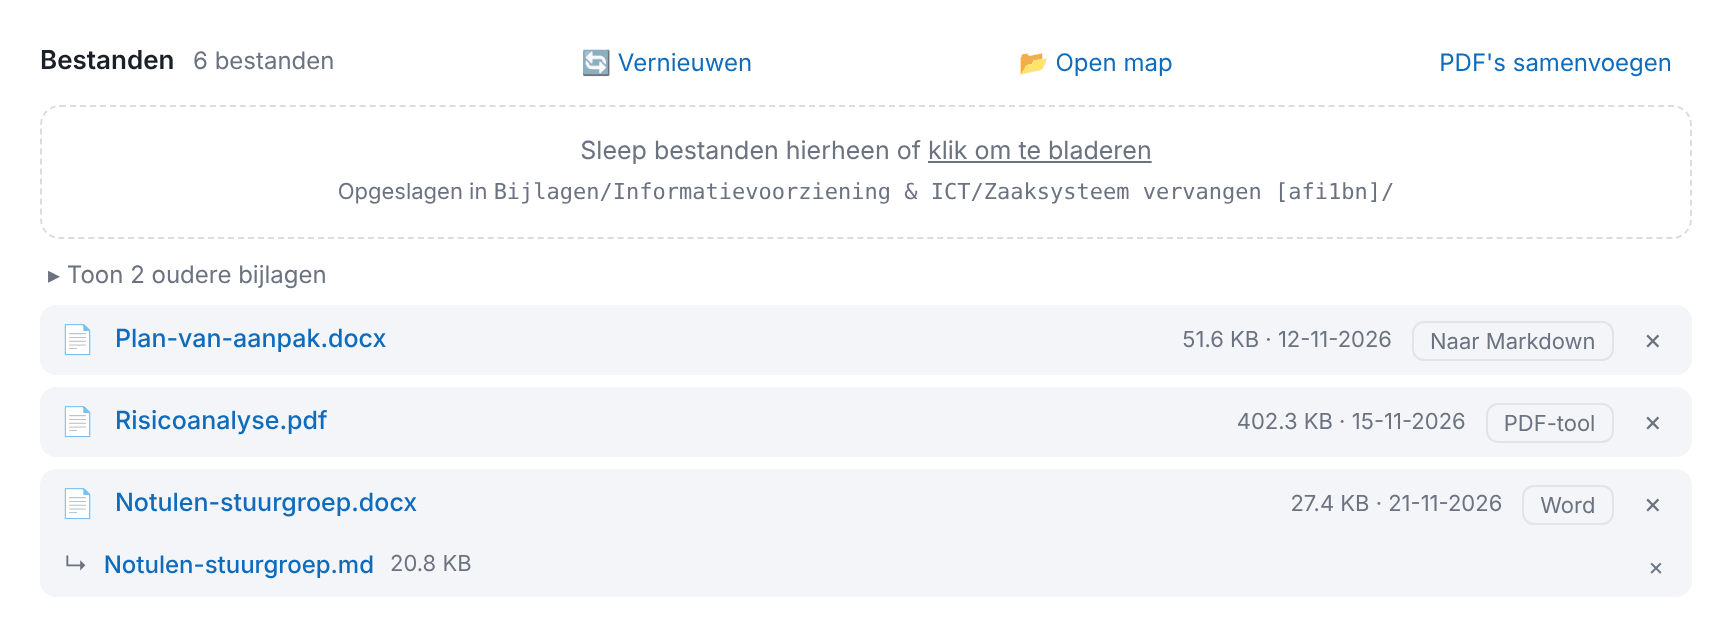
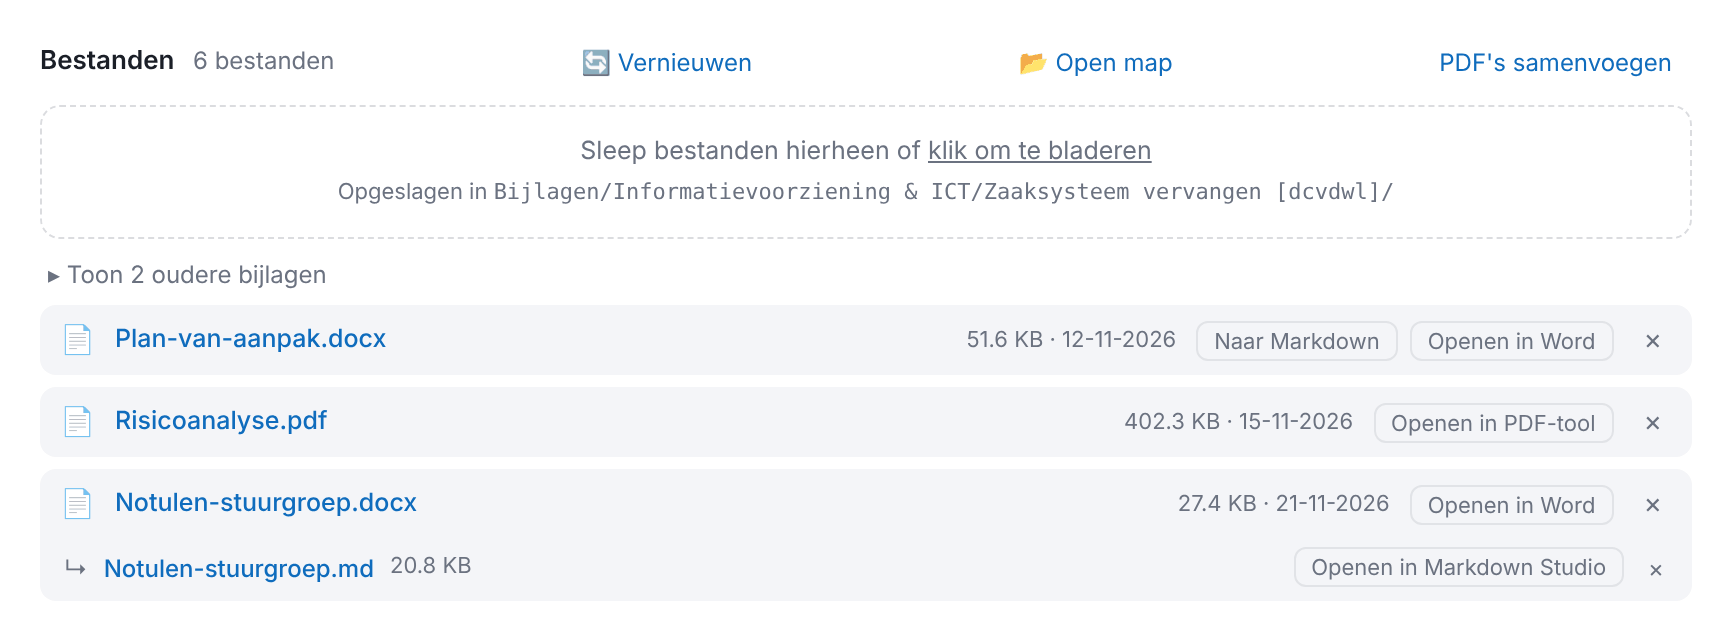
tweaks v4.48.2

diff --git a/index.html b/index.html
@@ -545,7 +545,9 @@
   .att-row .att-sub .ic{font-size:12px}
   .att-row .att-sub .del{margin-left:auto;font-size:12px;padding:0 4px}
   .att-row .att-sub.nieuw{animation:attNieuw 2.4s ease-out}
-  .att-row .editbtn,.att-row .wordbtn{min-width:0}
+  .att-row .att-acts{display:flex;gap:6px;justify-content:flex-end}
+  .att-row .att-sub .pdfbtn{margin-left:auto}
+  .att-row .att-sub .pdfbtn + .del{margin-left:0}
   .att-more{align-self:flex-start;background:transparent;border:0;color:var(--muted);cursor:pointer;font-size:12px;padding:2px 4px;border-radius:6px}
   .att-more:hover{color:var(--accent);background:var(--accent-soft)}
   .att-row.nieuw{animation:attNieuw 2.4s ease-out}
@@ -1969,8 +1971,15 @@
    Single-file HTML tool — data wordt opgeslagen als JSON.
    ============================================================ */
 
-const APP_VERSION = "4.48.0";
+const APP_VERSION = "4.48.2";
 const CHANGELOG = [
+  { version: "4.48.2", datum: "2026-11-24", items: [
+    "De knop PDF-tool bij PDF-bijlagen heet nu Openen in PDF-tool, passend bij Openen in Word en Openen in Markdown Studio.",
+  ]},
+  { version: "4.48.1", datum: "2026-11-24", items: [
+    "Een Word-bijlage heeft altijd de knop Openen in Word, ook als er nog geen Markdown-bestand van is gemaakt. Staat het SharePoint-adres bij Instellingen, dan opent het in Word Online.",
+    "Bij .md-bestanden staat nu de knop Openen in Markdown Studio, ook bij een .md dat onder een Word-document staat.",
+  ]},
   { version: "4.48.0", datum: "2026-11-24", items: [
     "Een Word-bijlage waar al een Markdown-bestand van is gemaakt, opent bij een klik op de naam dat .md-bestand in Markdown Studio. Het Word-document zelf open je met de knop Word.",
     "Wijzigingen in Markdown Studio schrijf je met Opslaan en terug naar hetzelfde .md-bestand, dus niet meer als nieuwe kopie. Is het bestand intussen elders gewijzigd, dan wordt er niets overschreven.",
@@ -15131,7 +15140,7 @@ const HELP_SECTIES = [
   "icon": "activiteiten",
   "views": [],
   "nav": "",
-  "tekst": "Een activiteit is alles waar je mee bezig bent bij een afdeling, een congres of het College B&W: een project, een vraag, een traject. Een activiteit maak je aan met **+ Nieuwe activiteit** op het tabblad Activiteiten van een afdeling. Klik op een activiteitskaart om hem open of dicht te klappen.\n\n# Basisgegevens\n- **Titel, startdatum en einddatum** staan samen op één regel.\n- **Status**: één klik op *lopend*, *on hold*, *afgerond* of *gearchiveerd*.\n- **Prioriteit**: *hoog*, *midden* of *laag*.\n- **Tags**: eerder gebruikte tags staan als knoppen, de meest gebruikte eerst en groter. Eén klik voegt een tag toe. Een nieuwe tag maak je via **+ Nieuwe of andere tag**.\n- **Omschrijving**: vrije tekst.\n\n# Acties\nConcrete to-do's bij de activiteit, met een optionele deadline. Afgevinkte acties verhuizen naar een ingeklapt archief op de kaart. Alle acties samen zie je in het scherm **Acties**.\n\n# Contactpersonen\n- Koppel mensen uit je contactenregister. Typ een naam en kies een suggestie.\n- Je vindt hier ook managers, collegeleden en control-personen die nog niet in Contacten staan; die worden dan automatisch toegevoegd.\n- De **rol** stel je per activiteit in, omdat iemands rol per verband kan verschillen. Naam, e-mail en telefoon komen uit het centrale contact.\n\n# Links\nHandige webadressen bij de activiteit, zoals een SharePoint-map, een Topdesk-melding of een document.\n\n# Logboek\nJe verslag van wat er is gebeurd: notities, mails en gesprekken. Zie **Logboek, opmaak en Snel vastleggen**.\n\n# Bijlagen\n- Sleep bestanden naar het vak, of klik om te bladeren. Ze worden opgeslagen in een eigen submap van je gekoppelde map; klik op een bijlage om hem te openen.\n- Bestanden die je zelf buiten de app in die map zet, worden automatisch herkend als je de activiteit opent. Bestanden die je uit die map hebt verwijderd (of verplaatst of hernoemd), verdwijnen dan ook uit de lijst. Met **Vernieuwen** laat je de map op elk moment opnieuw uitlezen; de knop meldt kort hoeveel bestanden er zijn toegevoegd en verwijderd.\n- Een bestand met dezelfde naam als een bestaande bijlage krijgt automatisch een unieke naam, bijvoorbeeld *rapport (2).pdf*.\n\n# PDF's ondertekenen, invullen en samenvoegen\n- Achter elke PDF-bijlage staat de knop **PDF-tool**. Die opent de PDF in de PDF-tool, in een nieuw tabblad. Daar kun je ondertekenen, tekst toevoegen, formulieren invullen, pagina's draaien of verwijderen en andere PDF's toevoegen.\n- Heeft een activiteit twee of meer PDF's, dan opent **PDF's samenvoegen** ze allemaal tegelijk.\n- Klaar? Klik in de PDF-tool op **Terugzetten**. Het resultaat komt als **nieuwe bijlage** bij de activiteit. Het origineel blijft ongewijzigd.\n- Alles blijft in je browser; er wordt niets geüpload.\n- De koppeling werkt alleen als je de tool via de website opent en de PDF-tool op hetzelfde websiteadres staat, in de map *pdf-tool*.\n\n# Word omzetten naar Markdown\n- Achter elke Word-bijlage (.docx) staat de knop **Naar Markdown**. Die opent het document in Markdown Studio, in een nieuw tabblad. Daar wordt het omgezet naar Markdown, handig om het aan een AI-chat te geven. Oude .doc-bestanden sla je eerst in Word op als .docx.\n- Klaar? Klik in Markdown Studio op **Terugzetten**. Het .md-bestand komt als **nieuwe bijlage** bij de activiteit, als klein regeltje onder het Word-document. Het origineel blijft ongewijzigd.\n- Is er een .md van het document gemaakt, dan opent een klik op de naam van het Word-document voortaan dat **.md-bestand** in Markdown Studio. Pas het aan en klik op **Opslaan en terug**: de wijzigingen gaan naar hetzelfde .md-bestand, er komt geen kopie bij. Is het bestand intussen op een andere plek gewijzigd, bijvoorbeeld door OneDrive, dan overschrijft de tool niets en krijg je een melding. Daarna sluit Markdown Studio zichzelf en kom je terug in deze tool.\n- Het Word-document zelf open je met de knop **Word**. Heb je bij Instellingen het **SharePoint-adres** van de gekoppelde map ingevuld, dan opent het in Word Online; anders op je computer.\n- Ook los .md-bestanden bij een activiteit hebben de knop **Bewerken** en openen in Markdown Studio.\n- Alles blijft in je browser; er wordt niets geüpload.\n- De koppeling werkt alleen als je de tool via de website opent en Markdown Studio op hetzelfde websiteadres staat, in de map *markdown-studio*.\n\n# Bijlagen overzichtelijk houden\nHeeft een activiteit meer dan drie bijlagen, dan zie je standaard alleen de laatste drie. Met **Toon oudere bijlagen** klap je de rest open, met **Toon alleen de laatste 3** klap je de lijst weer in.\n\n# Processen\nStart vanuit de activiteit een proces met werkinstructies, bijvoorbeeld *Aanschaf nieuwe software*. Het onderwerp wordt de titel van de activiteit. Gekoppelde processen staan op de kaart met hun voortgang; klik erop om het stappenplan te openen. Rond je het proces af, dan komt er automatisch een samenvatting in het logboek. Zie **Weekstart & processen**.\n\n# Verplaatsen, verwijderen en volgorde\n- **↔** verplaatst de activiteit naar een andere afdeling of een congres.\n- **×** verwijdert de activiteit.\n- Activiteiten staan in een vaste logische volgorde: eerst op status (lopend, on hold, afgerond, gearchiveerd), dan op prioriteit, dan op de eerstvolgende deadline en tot slot op titel.\n- Je kunt slepen om de volgorde aan te passen, binnen dezelfde status en prioriteit. **Standaardvolgorde** zet die handmatige volgorde weer terug.\n- Met de knoppen **Lopend / On hold / Afgerond / Gearchiveerd / Alle** kies je welke activiteiten je ziet. Afgeronde en gearchiveerde activiteiten zijn standaard verborgen.\n\n# Financiën\nIn een activiteit staat het blok **Financiën** met de begrotingsregels die aan de activiteit gekoppeld zijn, met begroot, uitgegeven en restant. Klik op een regel om hem te openen. Met **+ Begrotingsregel** maak je direct een regel aan voor deze activiteit. Heb je meer programma's, dan kies je in het venster bij welk programma (welke begroting) de regel hoort; standaard staat het programma klaar waar de activiteit al regels in heeft. Zie **Begroting**."
+  "tekst": "Een activiteit is alles waar je mee bezig bent bij een afdeling, een congres of het College B&W: een project, een vraag, een traject. Een activiteit maak je aan met **+ Nieuwe activiteit** op het tabblad Activiteiten van een afdeling. Klik op een activiteitskaart om hem open of dicht te klappen.\n\n# Basisgegevens\n- **Titel, startdatum en einddatum** staan samen op één regel.\n- **Status**: één klik op *lopend*, *on hold*, *afgerond* of *gearchiveerd*.\n- **Prioriteit**: *hoog*, *midden* of *laag*.\n- **Tags**: eerder gebruikte tags staan als knoppen, de meest gebruikte eerst en groter. Eén klik voegt een tag toe. Een nieuwe tag maak je via **+ Nieuwe of andere tag**.\n- **Omschrijving**: vrije tekst.\n\n# Acties\nConcrete to-do's bij de activiteit, met een optionele deadline. Afgevinkte acties verhuizen naar een ingeklapt archief op de kaart. Alle acties samen zie je in het scherm **Acties**.\n\n# Contactpersonen\n- Koppel mensen uit je contactenregister. Typ een naam en kies een suggestie.\n- Je vindt hier ook managers, collegeleden en control-personen die nog niet in Contacten staan; die worden dan automatisch toegevoegd.\n- De **rol** stel je per activiteit in, omdat iemands rol per verband kan verschillen. Naam, e-mail en telefoon komen uit het centrale contact.\n\n# Links\nHandige webadressen bij de activiteit, zoals een SharePoint-map, een Topdesk-melding of een document.\n\n# Logboek\nJe verslag van wat er is gebeurd: notities, mails en gesprekken. Zie **Logboek, opmaak en Snel vastleggen**.\n\n# Bijlagen\n- Sleep bestanden naar het vak, of klik om te bladeren. Ze worden opgeslagen in een eigen submap van je gekoppelde map; klik op een bijlage om hem te openen.\n- Bestanden die je zelf buiten de app in die map zet, worden automatisch herkend als je de activiteit opent. Bestanden die je uit die map hebt verwijderd (of verplaatst of hernoemd), verdwijnen dan ook uit de lijst. Met **Vernieuwen** laat je de map op elk moment opnieuw uitlezen; de knop meldt kort hoeveel bestanden er zijn toegevoegd en verwijderd.\n- Een bestand met dezelfde naam als een bestaande bijlage krijgt automatisch een unieke naam, bijvoorbeeld *rapport (2).pdf*.\n\n# PDF's ondertekenen, invullen en samenvoegen\n- Achter elke PDF-bijlage staat de knop **Openen in PDF-tool**. Die opent de PDF in de PDF-tool, in een nieuw tabblad. Daar kun je ondertekenen, tekst toevoegen, formulieren invullen, pagina's draaien of verwijderen en andere PDF's toevoegen.\n- Heeft een activiteit twee of meer PDF's, dan opent **PDF's samenvoegen** ze allemaal tegelijk.\n- Klaar? Klik in de PDF-tool op **Terugzetten**. Het resultaat komt als **nieuwe bijlage** bij de activiteit. Het origineel blijft ongewijzigd.\n- Alles blijft in je browser; er wordt niets geüpload.\n- De koppeling werkt alleen als je de tool via de website opent en de PDF-tool op hetzelfde websiteadres staat, in de map *pdf-tool*.\n\n# Word omzetten naar Markdown\n- Achter elke Word-bijlage (.docx) staat de knop **Naar Markdown**. Die opent het document in Markdown Studio, in een nieuw tabblad. Daar wordt het omgezet naar Markdown, handig om het aan een AI-chat te geven. Oude .doc-bestanden sla je eerst in Word op als .docx.\n- Klaar? Klik in Markdown Studio op **Terugzetten**. Het .md-bestand komt als **nieuwe bijlage** bij de activiteit, als klein regeltje onder het Word-document. Het origineel blijft ongewijzigd.\n- Is er een .md van het document gemaakt, dan opent een klik op de naam van het Word-document voortaan dat **.md-bestand** in Markdown Studio. Pas het aan en klik op **Opslaan en terug**: de wijzigingen gaan naar hetzelfde .md-bestand, er komt geen kopie bij. Is het bestand intussen op een andere plek gewijzigd, bijvoorbeeld door OneDrive, dan overschrijft de tool niets en krijg je een melding. Daarna sluit Markdown Studio zichzelf en kom je terug in deze tool.\n- Het Word-document zelf open je altijd met de knop **Openen in Word**, ook als er nog geen .md van is gemaakt. Heb je bij Instellingen het **SharePoint-adres** van de gekoppelde map ingevuld, dan opent het in Word Online; anders op je computer.\n- Elk .md-bestand bij een activiteit heeft de knop **Openen in Markdown Studio**.\n- Alles blijft in je browser; er wordt niets geüpload.\n- De koppeling werkt alleen als je de tool via de website opent en Markdown Studio op hetzelfde websiteadres staat, in de map *markdown-studio*.\n\n# Bijlagen overzichtelijk houden\nHeeft een activiteit meer dan drie bijlagen, dan zie je standaard alleen de laatste drie. Met **Toon oudere bijlagen** klap je de rest open, met **Toon alleen de laatste 3** klap je de lijst weer in.\n\n# Processen\nStart vanuit de activiteit een proces met werkinstructies, bijvoorbeeld *Aanschaf nieuwe software*. Het onderwerp wordt de titel van de activiteit. Gekoppelde processen staan op de kaart met hun voortgang; klik erop om het stappenplan te openen. Rond je het proces af, dan komt er automatisch een samenvatting in het logboek. Zie **Weekstart & processen**.\n\n# Verplaatsen, verwijderen en volgorde\n- **↔** verplaatst de activiteit naar een andere afdeling of een congres.\n- **×** verwijdert de activiteit.\n- Activiteiten staan in een vaste logische volgorde: eerst op status (lopend, on hold, afgerond, gearchiveerd), dan op prioriteit, dan op de eerstvolgende deadline en tot slot op titel.\n- Je kunt slepen om de volgorde aan te passen, binnen dezelfde status en prioriteit. **Standaardvolgorde** zet die handmatige volgorde weer terug.\n- Met de knoppen **Lopend / On hold / Afgerond / Gearchiveerd / Alle** kies je welke activiteiten je ziet. Afgeronde en gearchiveerde activiteiten zijn standaard verborgen.\n\n# Financiën\nIn een activiteit staat het blok **Financiën** met de begrotingsregels die aan de activiteit gekoppeld zijn, met begroot, uitgegeven en restant. Klik op een regel om hem te openen. Met **+ Begrotingsregel** maak je direct een regel aan voor deze activiteit. Heb je meer programma's, dan kies je in het venster bij welk programma (welke begroting) de regel hoort; standaard staat het programma klaar waar de activiteit al regels in heeft. Zie **Begroting**."
  },
  {
   "id": "logboek",
@@ -19229,33 +19238,34 @@ ${isStd ? `
       const kinderen = (afgeleid.get(at.filename) || []).filter(isMdBijlage);
       const heeftMd = kinderen.length > 0;
       const kanPdf = isPdfBijlage(at) && folderHandle;
-      const kanNaarMd = isWordBijlage(at) && !heeftMd && folderHandle;   // nog geen .md: eerst omzetten
-      const kanWord = isWordBijlage(at) && heeftMd;                       // .md bestaat: Word zelf blijft bereikbaar
+      const isWord = isWordBijlage(at);
+      const kanNaarMd = isWord && !heeftMd && folderHandle;   // nog geen .md: eerst omzetten
       const kanBewerken = isMdBijlage(at) && folderHandle;
       const naamTitel = heeftMd ? "Opent het Markdown-bestand in Markdown Studio" : (kanBewerken ? "Opent in Markdown Studio" : "");
+      const wordTitel = state.wordOnlineBasis ? "Het Word-document openen in Word Online" : "Het Word-document openen op je computer";
+      const knoppen = [
+        kanPdf ? `<button class="pdfbtn" data-act="pdf" title="Openen in de PDF-tool om te ondertekenen, in te vullen of samen te voegen. Het resultaat komt terug als nieuwe bijlage.">Openen in PDF-tool</button>` : "",
+        kanNaarMd ? `<button class="pdfbtn mdbtn" data-act="naarmd" title="Openen in Markdown Studio en omzetten naar Markdown, bijvoorbeeld voor een AI-chat. Met Terugzetten komt het .md-bestand als nieuwe bijlage terug.">Naar Markdown</button>` : "",
+        isWord ? `<button class="pdfbtn wordbtn" data-act="word" title="${wordTitel}">Openen in Word</button>` : "",
+        kanBewerken ? `<button class="pdfbtn editbtn" data-act="bewerk" title="Openen in Markdown Studio. Wijzigingen worden teruggeschreven naar dit bestand.">Openen in Markdown Studio</button>` : "",
+      ].join("");
       row.innerHTML = `
         <span class="ic">📄</span>
         <a class="name" data-filename="${escapeHTML(at.filename)}"${naamTitel ? ` title="${naamTitel}"` : ""}>${escapeHTML(at.filename)}</a>
         <span class="meta">${formatFileSize(at.size)} · ${new Date(at.addedAt).toLocaleDateString("nl-NL")}</span>
-        ${kanPdf ? `<button class="pdfbtn" title="Openen in de PDF-tool om te ondertekenen, in te vullen of samen te voegen. Het resultaat komt terug als nieuwe bijlage.">PDF-tool</button>`
-          : kanNaarMd ? `<button class="pdfbtn mdbtn" title="Openen in Markdown Studio en omzetten naar Markdown, bijvoorbeeld voor een AI-chat. Met Terugzetten komt het .md-bestand als nieuwe bijlage terug.">Naar Markdown</button>`
-          : kanWord ? `<button class="pdfbtn wordbtn" title="${state.wordOnlineBasis ? "Het Word-document openen in Word Online" : "Het Word-document openen op je computer"}">Word</button>`
-          : kanBewerken ? `<button class="pdfbtn editbtn" title="Openen in Markdown Studio. Wijzigingen worden teruggeschreven naar dit bestand.">Bewerken</button>`
-          : `<span></span>`}
+        <span class="att-acts">${knoppen}</span>
         <button class="del" title="Verwijder">×</button>
       `;
       if (at.id === laatstToegevoegdeBijlage) row.classList.add("nieuw");
-      const toolBtn = row.querySelector(".pdfbtn");
-      if (toolBtn){
-        if (kanPdf) toolBtn.onclick = ()=> openInPdfTool({ afdNaam, p, filenames: [at.filename], onDone: renderAttachments });
-        else if (kanNaarMd) toolBtn.onclick = ()=> openInMarkdownStudio({
-          afdNaam, p, filenames: [at.filename],
-          // een net teruggezet .md hoort bij een mogelijk ingeklapt Word-document: klap de lijst dan open
-          onDone: (meta)=>{ if (meta && meta.bron) attAlles = true; renderAttachments(); },
-        });
-        else if (kanWord) toolBtn.onclick = ()=> openInWord(at);
-        else if (kanBewerken) toolBtn.onclick = ()=> openMdBewerk(at);
-      }
+      const knop = (act)=> row.querySelector(`.att-acts [data-act="${act}"]`);
+      if (knop("pdf")) knop("pdf").onclick = ()=> openInPdfTool({ afdNaam, p, filenames: [at.filename], onDone: renderAttachments });
+      if (knop("naarmd")) knop("naarmd").onclick = ()=> openInMarkdownStudio({
+        afdNaam, p, filenames: [at.filename],
+        // een net teruggezet .md hoort bij een mogelijk ingeklapt Word-document: klap de lijst dan open
+        onDone: (meta)=>{ if (meta && meta.bron) attAlles = true; renderAttachments(); },
+      });
+      if (knop("word")) knop("word").onclick = ()=> openInWord(at);
+      if (knop("bewerk")) knop("bewerk").onclick = ()=> openMdBewerk(at);
       // Een Word-document met een .md erbij opent zijn .md; los .md-bestanden openen in Markdown Studio.
       row.querySelector(".name").onclick = ()=>{
         if (heeftMd) openMdBewerk(kinderen[kinderen.length - 1]);
@@ -19266,8 +19276,9 @@ ${isStd ? `
       for (const k of kinderen){
         const sub = document.createElement("div");
         sub.className = "att-sub" + (k.id === laatstToegevoegdeBijlage ? " nieuw" : "");
-        sub.innerHTML = `<span class="ic">↳</span><a class="name" data-filename="${escapeHTML(k.filename)}" title="Opent in Markdown Studio. Wijzigingen worden teruggeschreven naar dit bestand.">${escapeHTML(k.filename)}</a><span class="meta">${formatFileSize(k.size)}</span><button class="del" title="Verwijder">×</button>`;
+        sub.innerHTML = `<span class="ic">↳</span><a class="name" data-filename="${escapeHTML(k.filename)}" title="Opent in Markdown Studio. Wijzigingen worden teruggeschreven naar dit bestand.">${escapeHTML(k.filename)}</a><span class="meta">${formatFileSize(k.size)}</span><button class="pdfbtn editbtn" data-act="bewerk" title="Openen in Markdown Studio. Wijzigingen worden teruggeschreven naar dit bestand.">Openen in Markdown Studio</button><button class="del" title="Verwijder">×</button>`;
         sub.querySelector(".name").onclick = ()=> openMdBewerk(k);
+        sub.querySelector('[data-act="bewerk"]').onclick = ()=> openMdBewerk(k);
         sub.querySelector(".del").onclick = ()=> verwijderBijlage(k);
         row.appendChild(sub);
       }
